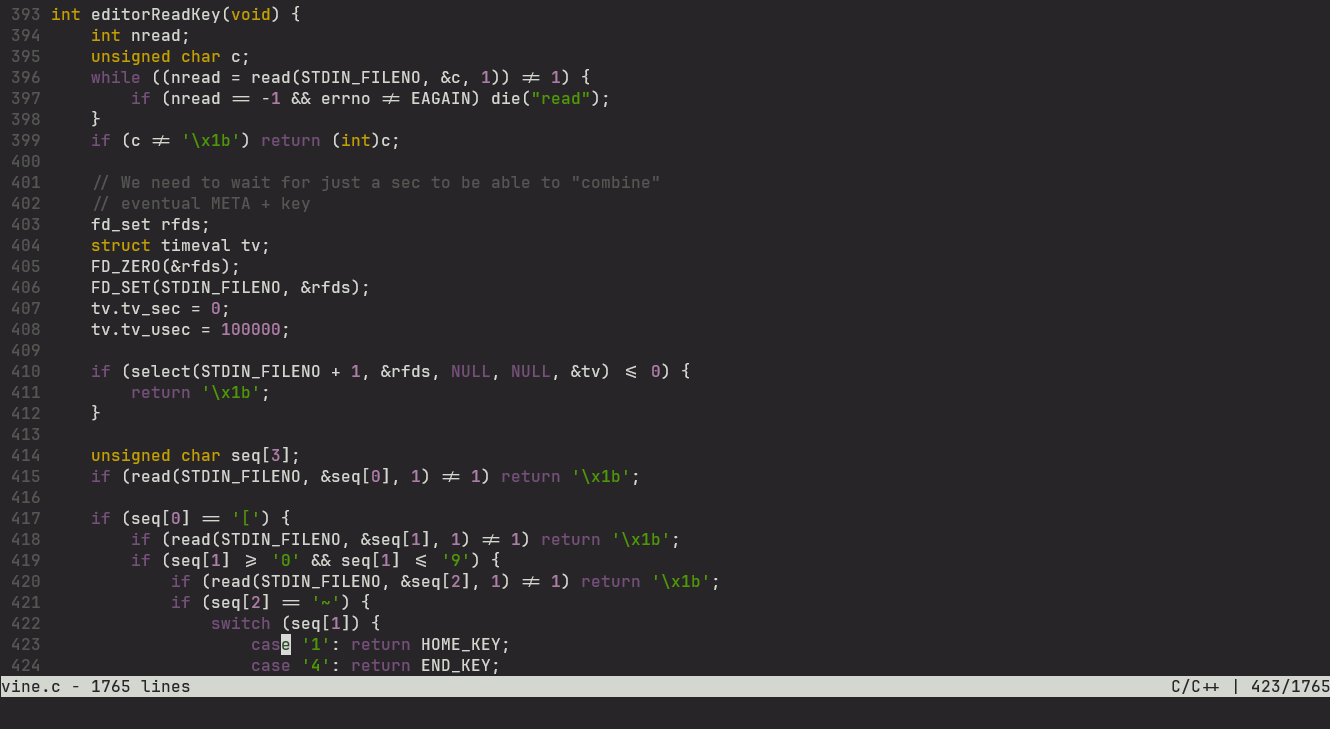
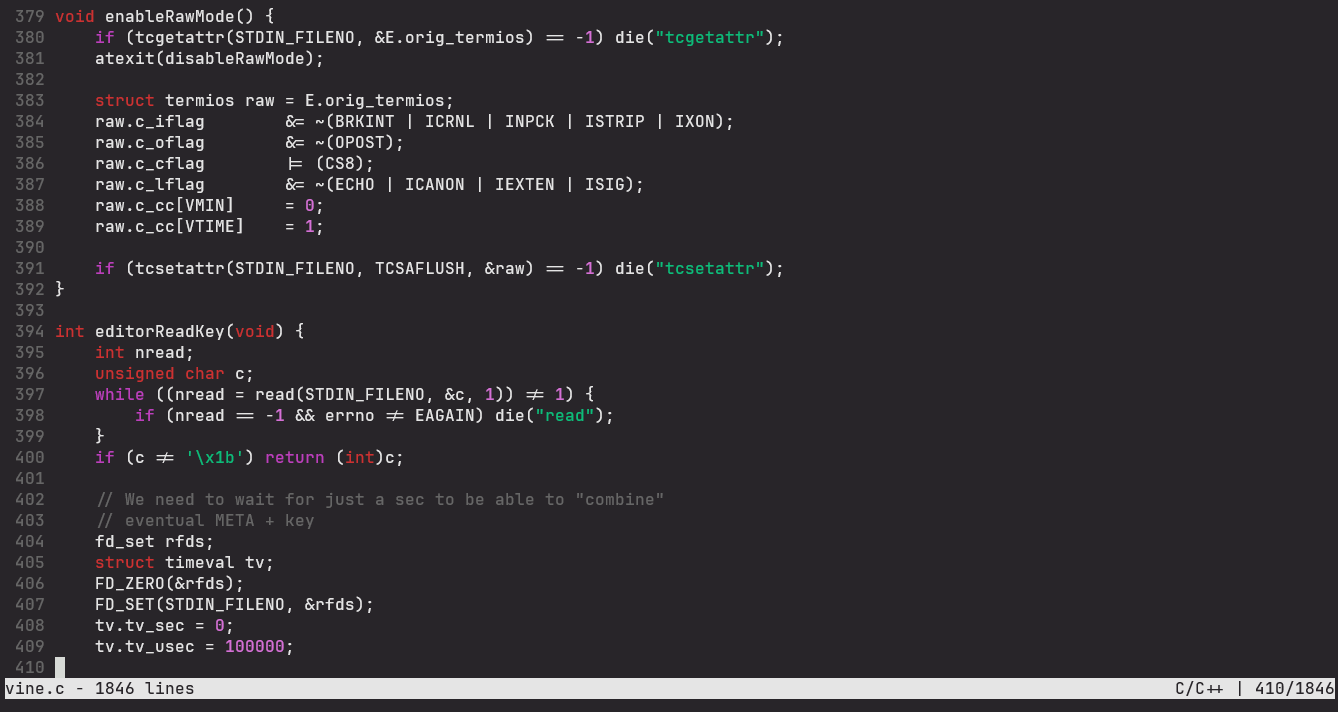
last tweak to the default theme i swear to god

Changed region(s): [[0.0, 0.0, 1.0, 0.9888], [0.4316, 0.3708, 0.5857, 0.4017], [0.4316, 0.0309, 0.5857, 0.0618]]

diff --git a/vine.c b/vine.c
@@ -206,8 +206,8 @@ const struct editorTheme elflord_theme = {
 };
 
 const struct editorTheme default_theme = {
-    GREY, PURPLE, YELLOW, GREEN,
-    BRIGHT_PURPLE, RED, WHITE,
+    GREY, PURPLE, RED, GREEN,
+    BRIGHT_PURPLE, BLUE, WHITE,
 
     GREY, WHITE, BG_DEFAULT
 };
